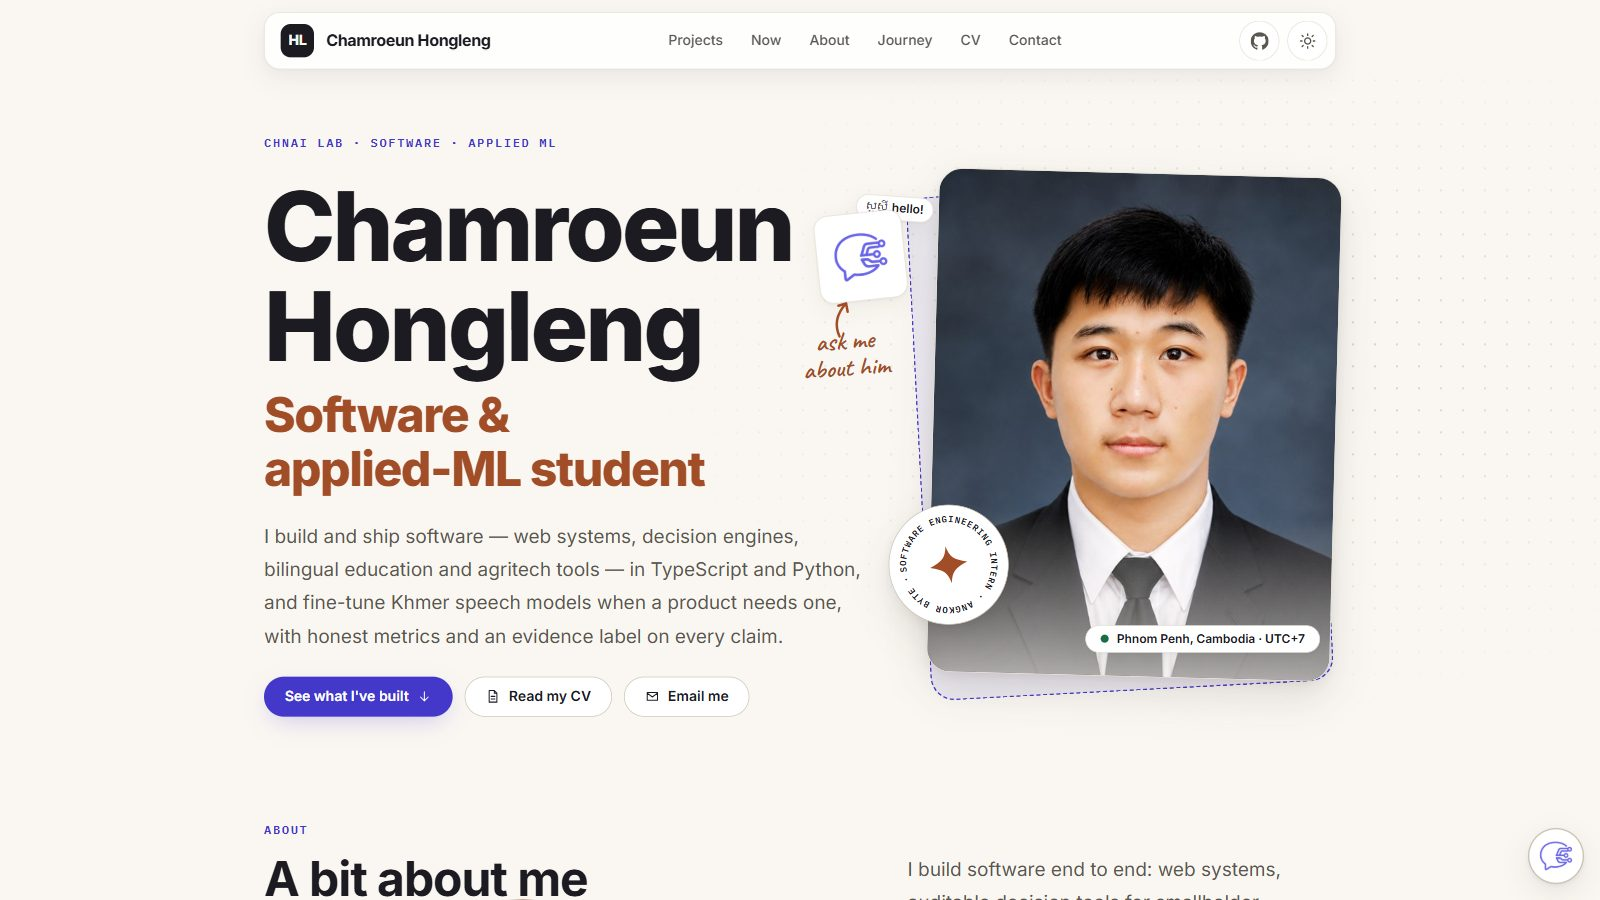
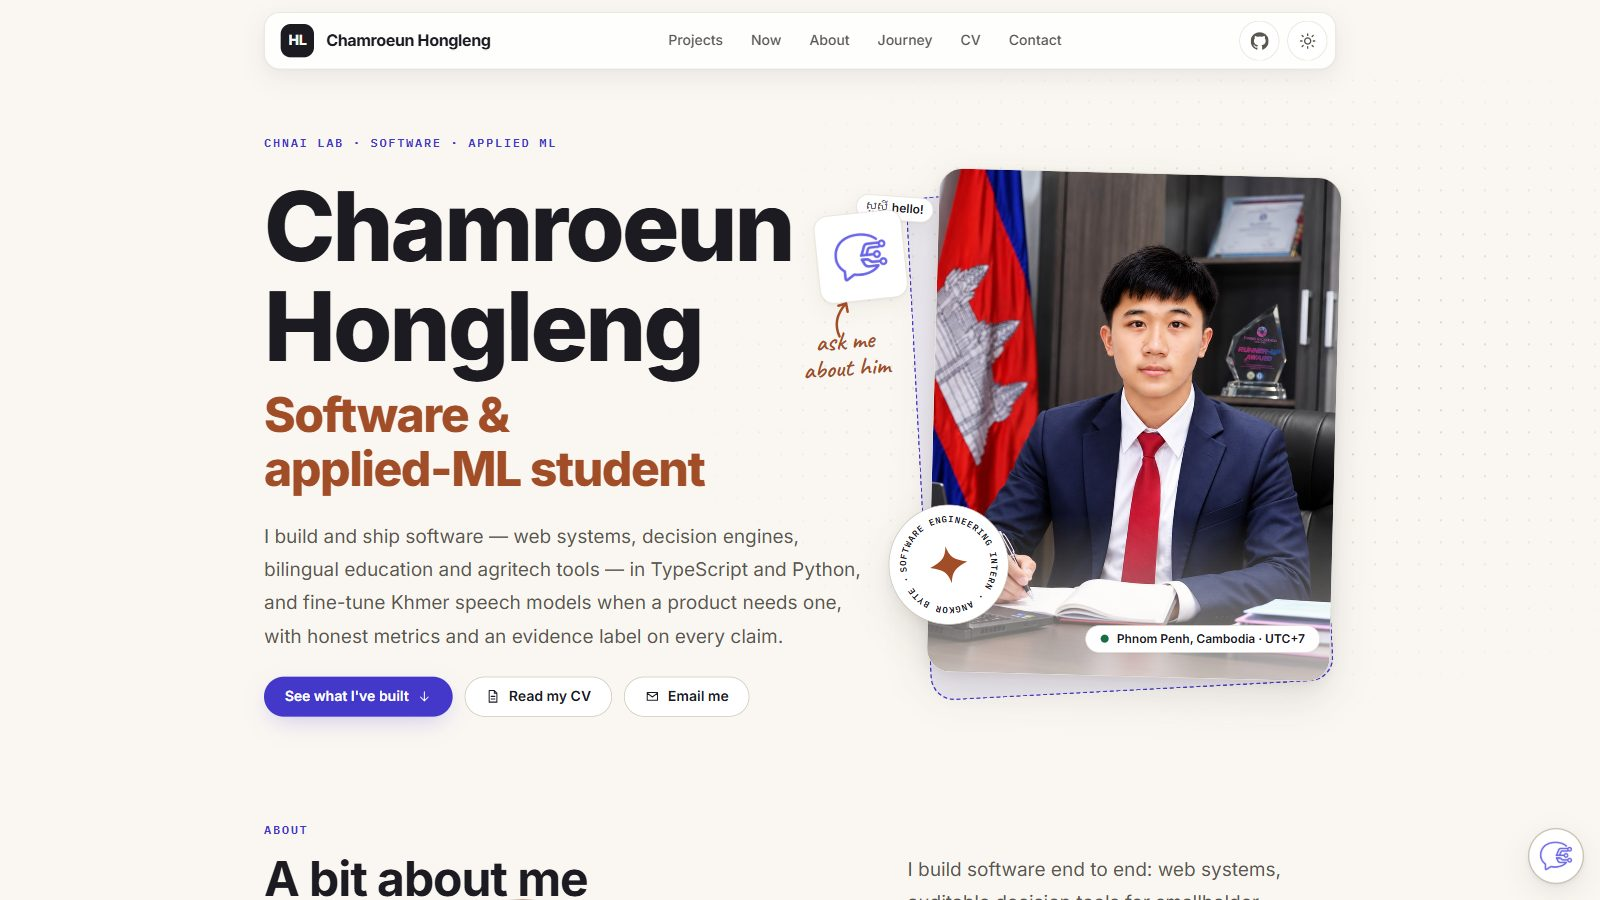
Use the new desk portrait across the site
The hero, the About page, and the phone profile row now show the new
photo: seated at a desk in a navy suit and red tie, with the Cambodian
flag behind and the Turing Hackathon runner-up trophy on the shelf. The
alt text describes it.

It is a wider scene than the old head-and-shoulders shot, so the phone
avatar zooms to the head and shoulders instead of shrinking the whole
desk into 100px. The case-study screenshot of the homepage is retaken
to match.

Changed region(s): [[0.5625, 0.1867, 0.8438, 0.7778]]

diff --git a/app/components/home/HeroPortrait.vue b/app/components/home/HeroPortrait.vue
@@ -220,6 +220,12 @@ const ringId = `stamp-ring-${useId()}`
     transform: rotate(-2deg);
   }
 
+  /* The photo is a desk scene; at avatar size, zoom to the head and shoulders. */
+  .portrait-img {
+    transform: scale(1.9);
+    transform-origin: 58% 22%;
+  }
+
   .portrait-fade,
   .stamp {
     display: none;
